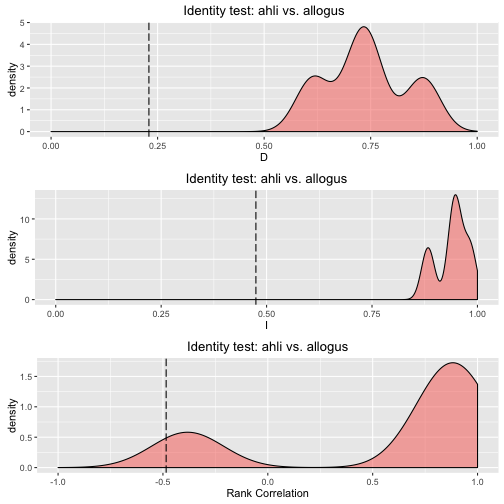
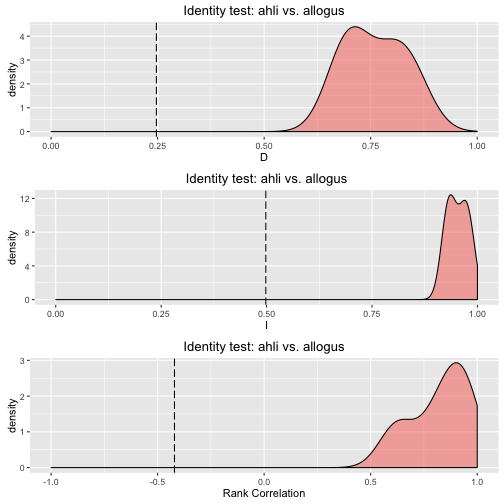
Added bg test to readme

diff --git a/readme.md b/readme.md
@@ -124,16 +124,16 @@ ahli
 ## 
 ## | Longitude| Latitude|
 ## |---------:|--------:|
-## | -79.97892| 22.07920|
-## | -79.97059| 22.02087|
-## | -79.89559| 21.90420|
-## | -80.00392| 22.06254|
-## | -79.99559| 21.83754|
-## | -80.29559| 22.01254|
-## | -79.82892| 21.82087|
-## | -79.93726| 21.91254|
-## | -79.62892| 21.70420|
-## | -80.05392| 21.91254|
+## | -79.79559| 21.93754|
+## | -79.94559| 22.01254|
+## | -80.27892| 22.13754|
+## | -79.93726| 21.95420|
+## | -80.29559| 22.17920|
+## | -79.76226| 21.73754|
+## | -80.49559| 22.05420|
+## | -80.17892| 21.97087|
+## | -79.77059| 21.72920|
+## | -80.33726| 21.96254|
 ## 
 ## 
 ## Species name:  ahli
@@ -188,16 +188,16 @@ allogus
 ## 
 ## | Longitude| Latitude|
 ## |---------:|--------:|
-## | -77.39559| 20.97087|
-## | -78.92892| 22.15420|
-## | -76.34559| 20.07087|
-## | -76.41226| 20.19587|
-## | -76.69559| 20.23754|
-## | -76.56226| 20.12087|
-## | -75.70392| 20.49587|
-## | -78.17892| 21.02087|
-## | -74.20392| 20.15420|
-## | -77.05392| 20.90420|
+## | -75.07059| 20.31254|
+## | -76.27059| 20.27087|
+## | -75.66226| 20.73754|
+## | -78.09559| 21.82920|
+## | -75.52892| 20.54587|
+## | -77.93726| 21.41254|
+## | -75.11226| 20.61254|
+## | -76.97059| 20.01254|
+## | -77.81226| 21.78754|
+## | -75.81226| 20.67087|
 ## 
 ## 
 ## Species name:  allogus
@@ -240,7 +240,7 @@ ahli.glm
 ## 
 ## 
 ## Formula:  presence ~ layer.1 + layer.2 + layer.3 + layer.4
-## <environment: 0x10e98b478>
+## <environment: 0x1188bdb88>
 ## 
 ## 
 ## Data table (top ten lines): 
@@ -265,23 +265,23 @@ ahli.glm
 ## 
 ## Deviance Residuals: 
 ##      Min        1Q    Median        3Q       Max  
-## -0.65614  -0.20398  -0.13775  -0.09092   3.06593  
+## -0.67296  -0.20228  -0.13947  -0.09445   3.10288  
 ## 
 ## Coefficients:
 ##              Estimate Std. Error z value Pr(>|z|)  
-## (Intercept) 54.350528  25.362745   2.143   0.0321 *
-## layer.1     -0.014744   0.006369  -2.315   0.0206 *
-## layer.2     -0.013545   0.006645  -2.038   0.0415 *
-## layer.3      0.001597   0.006594   0.242   0.8086  
-## layer.4     -0.010125   0.020983  -0.483   0.6294  
+## (Intercept) 50.938974  24.674054   2.064   0.0390 *
+## layer.1     -0.013914   0.006207  -2.242   0.0250 *
+## layer.2     -0.013155   0.006577  -2.000   0.0455 *
+## layer.3      0.001630   0.006472   0.252   0.8012  
+## layer.4     -0.007416   0.022042  -0.336   0.7365  
 ## ---
 ## Signif. codes:  0 '***' 0.001 '**' 0.01 '*' 0.05 '.' 0.1 ' ' 1
 ## 
 ## (Dispersion parameter for binomial family taken to be 1)
 ## 
 ##     Null deviance: 164.58  on 1015  degrees of freedom
-## Residual deviance: 149.15  on 1011  degrees of freedom
-## AIC: 159.15
+## Residual deviance: 149.97  on 1011  degrees of freedom
+## AIC: 159.97
 ## 
 ## Number of Fisher Scoring iterations: 8
 ## 
@@ -295,7 +295,7 @@ ahli.glm
 ## coord. ref. : NA 
 ## data source : in memory
 ## names       : layer 
-## values      : 2.255333e-07, 0.9999922  (min, max)
+## values      : 1.773163e-06, 0.9999875  (min, max)
 ```
 
 ![plot of chunk unnamed-chunk-8](figure/unnamed-chunk-8-1.png)
@@ -323,10 +323,10 @@ raster.breadth(ahli.glm)
 
 ```
 ## $B1
-## [1] 0.2293215
+## [1] 0.2248204
 ## 
 ## $B2
-## [1] 0.8889006
+## [1] 0.8883967
 ```
 
 
@@ -339,13 +339,13 @@ raster.overlap(ahli.glm, allogus.glm)
 
 ```
 ## $D
-## [1] 0.4487702
+## [1] 0.4712461
 ## 
 ## $I
-## [1] 0.7187306
+## [1] 0.7383371
 ## 
 ## $rank.cor
-## [1] 0.8516102
+## [1] 0.8907695
 ```
 
 ## Hypothesis testing
@@ -354,7 +354,7 @@ raster.overlap(ahli.glm, allogus.glm)
 
 In this example, we will run a niche identity (also called equivalency) test, as in Warren et al. 2008.  This test takes the presence points for a pair of species and randomly reassigns them to each species, then builds ENMs for these randomized occurrences.  By doing this many times, we can estimate the probability distribution for ENM overlap between species under the null hypothesis that the two species' occurrences in the environment are effectivel a random draw from the same underlying distribution.  Note that niche evolution is only one of many reasons why two species' realized environmental distributions might cause departures from this null hypothesis.  See Warren et al. 2014 for details.
 
-To run an identity test, we need to decide what type of models we will build, how many replicates we will run, and (in the case of GLM) a model formula to use for empirical models and the Monte Carlo replicates.  The resulting object contains the replicate models, p values, and plots of the results.
+To run an identity test, we need to decide what type of models we will build, how many replicates we will run, and (in the case of GLM) a model formula to use for empirical models and the Monte Carlo replicates.  The resulting object contains the replicate models, p values, and plots of the results.  Typically idenity tests are run with at least 99 replicates, but we are using a smaller number here for the sake of execution time.
 
 
 
@@ -385,14 +385,101 @@ id.glm
 ## 
 ## |          |         D|         I|   rank.cor|
 ## |:---------|---------:|---------:|----------:|
-## |empirical | 0.2296211| 0.4746654| -0.4846668|
-## |rep 1     | 0.7243723| 0.9430028|  0.8719247|
-## |rep 2     | 0.6149077| 0.8829507| -0.3823921|
-## |rep 3     | 0.8728419| 0.9829971|  0.8566643|
-## |rep 4     | 0.7445990| 0.9500961|  0.9186322|
+## |empirical | 0.2471983| 0.4982702| -0.4207794|
+## |rep 1     | 0.8449009| 0.9807613|  0.8093011|
+## |rep 2     | 0.7083306| 0.9365849|  0.9237444|
+## |rep 3     | 0.7951422| 0.9676197|  0.6248240|
+## |rep 4     | 0.6911242| 0.9285969|  0.9328996|
 ```
 
 ![plot of chunk unnamed-chunk-14](figure/unnamed-chunk-14-1.png)
+
+
+### Background or similarity test
+
+The background or similarity test compares the overlap seen between two species' ENMs to the overlap expected by chance if one or both species was effectively choosing habitat at random from within their broad geographic range.  The purpose of this test is to correct for the availability of habitat and ask whether the observed similarity between species or populations is significantly more (or less) than expected given the available set of environments in the regions in which they occur.  
+
+In Warren et al. 2008, we developed this test in the context of comparing one species' actual occurrence to the random background occurrences of the other species.  This is what we call an "asymmetric" test, and in our case we did the test in both directions with the idea that we might compare the results of A vs. B background to the results of B vs. A background.  This may be informative in some cases, but many people have also found this asymmetry confusing (and indeed it is often difficult to interpret).  For that reason, the background test here can be conducted against a null hypothesis that is generated from "asymmetric" (species.1 vs species.2 background) or "symmetric" (species.1 background vs. species.2 background) comparisons.
+
+Here, for instance, is a Bioclim background test using the classical asymmetric approach:
+
+
+
+```r
+bg.bc.asym <- background.test(species.1 = ahli, species.2 = allogus, env = env, type = "bc", nreps = 4, test.type = "asymmetric" )
+```
+
+
+```r
+bg.bc.asym
+```
+
+```
+## 
+## 
+##  
+## 
+## Asymmetric background test ahli vs. allogus background
+## 
+## background test p-values:
+##        D        I rank.cor 
+##      0.4      0.8      0.6 
+## 
+## 
+## Replicates:
+## 
+## 
+## |          |         D|         I|  rank.cor|
+## |:---------|---------:|---------:|---------:|
+## |empirical | 0.1328502| 0.3177390| 0.0706201|
+## |rep 1     | 0.1363728| 0.3051854| 0.0812764|
+## |rep 2     | 0.1362094| 0.3133505| 0.0873307|
+## |rep 3     | 0.1259829| 0.2925272| 0.0045207|
+## |rep 4     | 0.1418544| 0.3191782| 0.0705111|
+```
+
+![plot of chunk unnamed-chunk-17](figure/unnamed-chunk-17-1.png)
+
+
+And here is a Domain background test using the symmetric approach:
+
+
+
+```r
+bg.dm.sym <- background.test(species.1 = ahli, species.2 = allogus, env = env, type = "dm", nreps = 4, test.type = "symmetric" )
+```
+
+
+```r
+bg.dm.sym
+```
+
+```
+## 
+## 
+##  
+## 
+## Symmetric background test ahli background vs. allogus background
+## 
+## background test p-values:
+##        D        I rank.cor 
+##      0.4      0.6      0.8 
+## 
+## 
+## Replicates:
+## 
+## 
+## |          |         D|         I|   rank.cor|
+## |:---------|---------:|---------:|----------:|
+## |empirical | 0.1328502| 0.3177390|  0.0706201|
+## |rep 1     | 0.1463295| 0.3007643| -0.0047616|
+## |rep 2     | 0.2024762| 0.3994131|  0.0197081|
+## |rep 3     | 0.1149880| 0.3167491|  0.0828925|
+## |rep 4     | 0.1915355| 0.3790515|  0.0235343|
+```
+
+![plot of chunk unnamed-chunk-20](figure/unnamed-chunk-20-1.png)
+
 
 ### Literature cited
 
